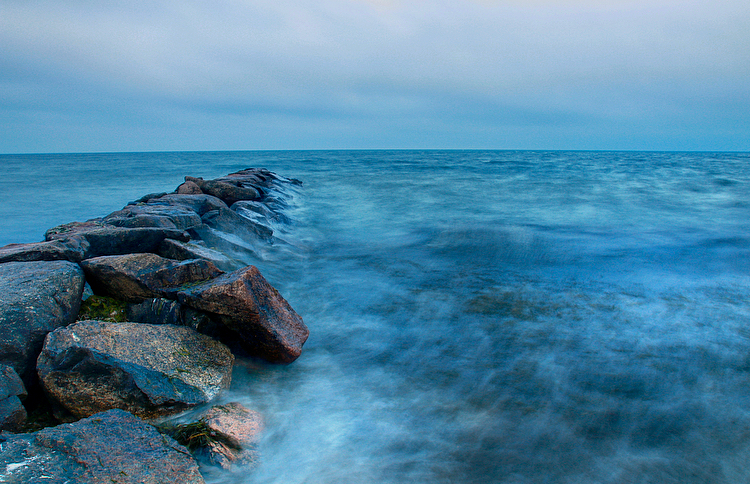
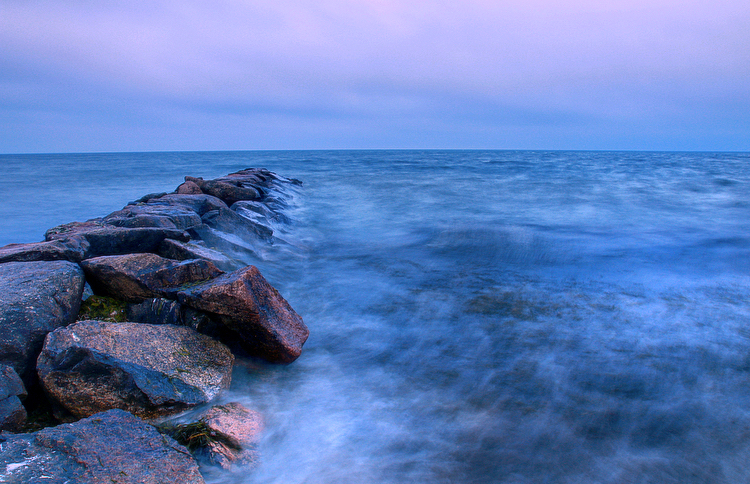
change padding on sponsor profile page and adjusted background image color for readability

diff --git a/src/components/SponsorProfilePage/SponsorProfilePage.js b/src/components/SponsorProfilePage/SponsorProfilePage.js
@@ -18,20 +18,20 @@ const mapStateToProps = state => ({
 });
 
 class UserPage extends Component {
-  constructor(props){
+  constructor(props) {
     super(props);
-  this.state = {
-   
+    this.state = {
 
-  }
+
+    }
 
   }
 
   componentDidMount() {
     this.props.dispatch({ type: USER_ACTIONS.FETCH_USER });
     this.props.dispatch({ type: 'GET_MESSAGES' })
-    this.props.dispatch({ type: 'GET_USER_INFO'})
-    
+    this.props.dispatch({ type: 'GET_USER_INFO' })
+
   }
 
   componentDidUpdate() {
@@ -48,46 +48,48 @@ class UserPage extends Component {
   profile;
 
   render() {
-    
+
     let content
     if (this.props.user.userName) {
       content = (
-        <div style={{ color: 'white', marginLeft: 50,fontSize: 18}}className ="sponsorPage">
-          <h1 id="welcome"> Welcome, { this.props.user.userName }!</h1>
+        <div style={{ color: 'white', marginLeft: 50, fontSize: 18 }} className="sponsorPage">
+          <h1 id="welcome"> Welcome, {this.props.user.userName}!</h1>
           <p>Email: {this.props.state.currentSponsor.email}</p>
           <p>Phone: {this.props.state.currentSponsor.phone}</p>
           <p>City/State: {this.props.state.currentSponsor.city}</p>
           <p>Hobbies/Interests: {this.props.state.currentSponsor.hobbies}</p>
           <p >Addiction History: {this.props.state.currentSponsor.history}</p>
-          <p>Years Sober: {this.props.state.currentSponsor.years_sober}</p>      
+          <p>Years Sober: {this.props.state.currentSponsor.years_sober}</p>
         </div>
       );
     }
-  
+
 
 
     return (
       <div>
         <Nav />
-        <ImageUploader type={'UPLOAD_PHOTO'}/>
-        <ToggleAvailabilitySwitch messageList={this.props.state.messageList}/>
+      <div style={{ margin: '50px 30px', padding: '25px' }}>
+        <ImageUploader type={'UPLOAD_PHOTO'} />
+        <ToggleAvailabilitySwitch messageList={this.props.state.messageList} />
+
+
+        <EditProfileDialogue handleClickOpen={this.handleClickOpen}
+          handleClose={this.handleClose}
+          id={this.props.user.id}
+          sponsor={this.props.state.currentSponsor}
+
+
+        />
 
         
-        <EditProfileDialogue handleClickOpen={this.handleClickOpen}
-                             handleClose={this.handleClose}
-                             id={this.props.user.id}
-                              sponsor={this.props.state.currentSponsor}
-                              
-                             
-        />
-        
-        
-        <div style={{margin: '20px', float: 'right'}}>
-        <img height="300px" width="auto" src={this.props.state.currentSponsor.photo}/>
+        <div style={{float: 'right' }}>
+          <img height="300px" width="auto" src={this.props.state.currentSponsor.photo} />
         </div>
-        { content }
-        <SponsorMessageTable messageList={this.props.state.messageList}/>
-        <EventPageForm/>
+        {content}
+        <SponsorMessageTable messageList={this.props.state.messageList} />
+        </div>
+        <EventPageForm />
       </div>
     );
   }

diff --git a/src/styles/main.css b/src/styles/main.css
@@ -1,13 +1,9 @@
 body {
-    font-family: "Arial Black", Gadget, sans-serif	;
-    
-    
+    font-family: "Arial Black", Gadget, sans-serif	;    
 }
+
 .space{
     height: 200px
-
-  
-
 }
 
 .previewComponent{
@@ -17,7 +13,6 @@ body {
 .App-logo {
     animation: App-logo-spin infinite 5s linear;
     height: 70px;
-
   }
 
 .instructions h1 {
@@ -25,18 +20,17 @@ body {
     font-weight: 700;
     text-align: center
 }
+
 jpg
 {
   width: 100%;
   z-index: 0;
-
 }
+
 .instructions {
     padding: 5px;
     color: #ece7e7;
     margin: 30px;
-
-   
 }
 
 form {
@@ -46,19 +40,16 @@ form {
     padding: 25px;
     border-radius: 2px;
     background: 'rgba(255,255,255,0.5)'
-
 }
 
 input {
     margin: 5px;
     margin-bottom: 10px;
-   
 }
 
 input[type="submit"] {
     margin: 10px;
     background: 'rgba(255,255,255,0.5)'
-
 }
 
 
@@ -68,7 +59,6 @@ input[type="submit"] {
 
 .message p {
     margin-left: 10px;
-
 }
 
 .message:nth-child(odd) {
@@ -121,63 +111,17 @@ a{
 }
 html{
     font-size: 80%;
-    background-color: #050505;
- 
-
-  
+    background-color: #050505;  
 }
+
 img {
     color: lightblue,
-    
 }
+
 h1{
     font-size: 36px;
 }
+
 h3{
   margin-left: 15px
 }
-/* .fileInput{ */
-  /* border-bottom: 4px solid lightgray;
-  border-right: 4px solid lightgray;
-  border-top: 1px solid black;
-  border-left: 1px solid black; */
-  /* padding: 10px;
-  margin: 15px;
-  cursor: pointer;
-} */
-/* .imgPreview{
-  text-align: center; */
-  /* margin: 5px 15px; */
-  /* height: 250px;
-  width: 400px; */
-  /* border-left: 1px solid gray;
-  border-right: 1px solid gray;
-  border-top: 5px solid gray;
-  border-bottom: 5px solid gray; */
-/* } */
-/* .previewText{
-  width: 100%;
-  margin-top: 20px;
-}
-.submitButton{
-  padding: 12px;
-  margin-left: 10px;
-  background: white;
-  border: 4px solid lightgray;
-  border-radius: 15px;
-  font-weight: 700;
-  font-size: 10pt;
-  cursor: pointer;
-
-}
-.submitButton:hover{
-    background: #efefef; 
-}
-.centerText{
-  text-align: center;
-  width: 500px;
-}
-img{
-width: 100%;
-height: 100%;
-} */

diff --git a/src/App.js b/src/App.js
@@ -12,7 +12,6 @@ import RegisterPage from './components/RegisterPage/RegisterPage';
 import SponsorProfilePage from './components/SponsorProfilePage/SponsorProfilePage';
 import InfoPage from './components/InfoPage/InfoPage';
 import InitialPage from './components/InitialPage/InitialPage'
-import CreateSponsorProfilePage from './components/CreateSponsorProfilePage/CreateSponsorProfilePage'
 import './styles/main.css';
 import BrowseSponsorsPage from './components/BrowseSponsorsPage/BrowseSponsorsPage';
 import EventsPage from './components/EventsPage/EventsPage'
@@ -58,10 +57,6 @@ const App = () => (
           path="/browse"
           component={BrowseSponsorsPage}
         />
-         <Route
-          path="/create_profile"
-          component={CreateSponsorProfilePage}
-        />  
         <Route
           path="/events"
           component={EventsPage}

diff --git a/src/components/InitialPage/InitialPage.js b/src/components/InitialPage/InitialPage.js
@@ -10,7 +10,7 @@ class InitialPage extends Component {
         return (
             <div >
                 <NavBar />
-                <div style={{margin: '50px', color: 'lightGrey',marginTop: '200px', marginBottom: '200px', textAlign: 'center'}}>
+                <div style={{margin: '50px', color: 'lightGrey',marginTop: '100px', marginBottom: '200px', textAlign: 'center'}}>
                     <h2>Sponsored is dedicated to helping addicts find the resources needed to help them live in recovery. 
                      It connects people struggling with addiction to people who are willing to help support them . 
                      Our main goal is to make Sponsors easily available, provide resources to assist those in need, 

diff --git a/src/components/SponsorMessageTable/SponsorMessageTable.js b/src/components/SponsorMessageTable/SponsorMessageTable.js
@@ -20,7 +20,7 @@ const CustomTableCell = withStyles(theme => ({
     background: 'rgba(255,255,255,0.5)'
   },
   body: {
-    fontSize: 10,
+    fontSize: 16,
 
   },
 }))(TableCell);
@@ -65,7 +65,7 @@ class CustomizedTable extends Component {
           this.props.dispatch({
             type: 'DELETE_ITEM', payload: messageid
           })
-          swal("Poof! Your message has been deleted!", {
+          swal("Message has been deleted!", {
             icon: "success",
           });
         } else {

diff --git a/src/components/InfoPage/InfoPage.js b/src/components/InfoPage/InfoPage.js
@@ -13,7 +13,7 @@ class InfoPage extends Component {
 
   render() {
     let content = (
-      <div>
+      <div style={{margin: '50px 250px'}}>
       
         <h1 style={{ color: 'white', textAlign: 'center', fontSize: '36px' }} >
           RESOURCES

diff --git a/src/components/ImageUploader/ImageUploader.js b/src/components/ImageUploader/ImageUploader.js
@@ -48,11 +48,7 @@ class ImageUpload extends React.Component {
             }
         })
         toast.success(' ImageUploaded');
-
-
     }
-
-
 
     render() {
 
